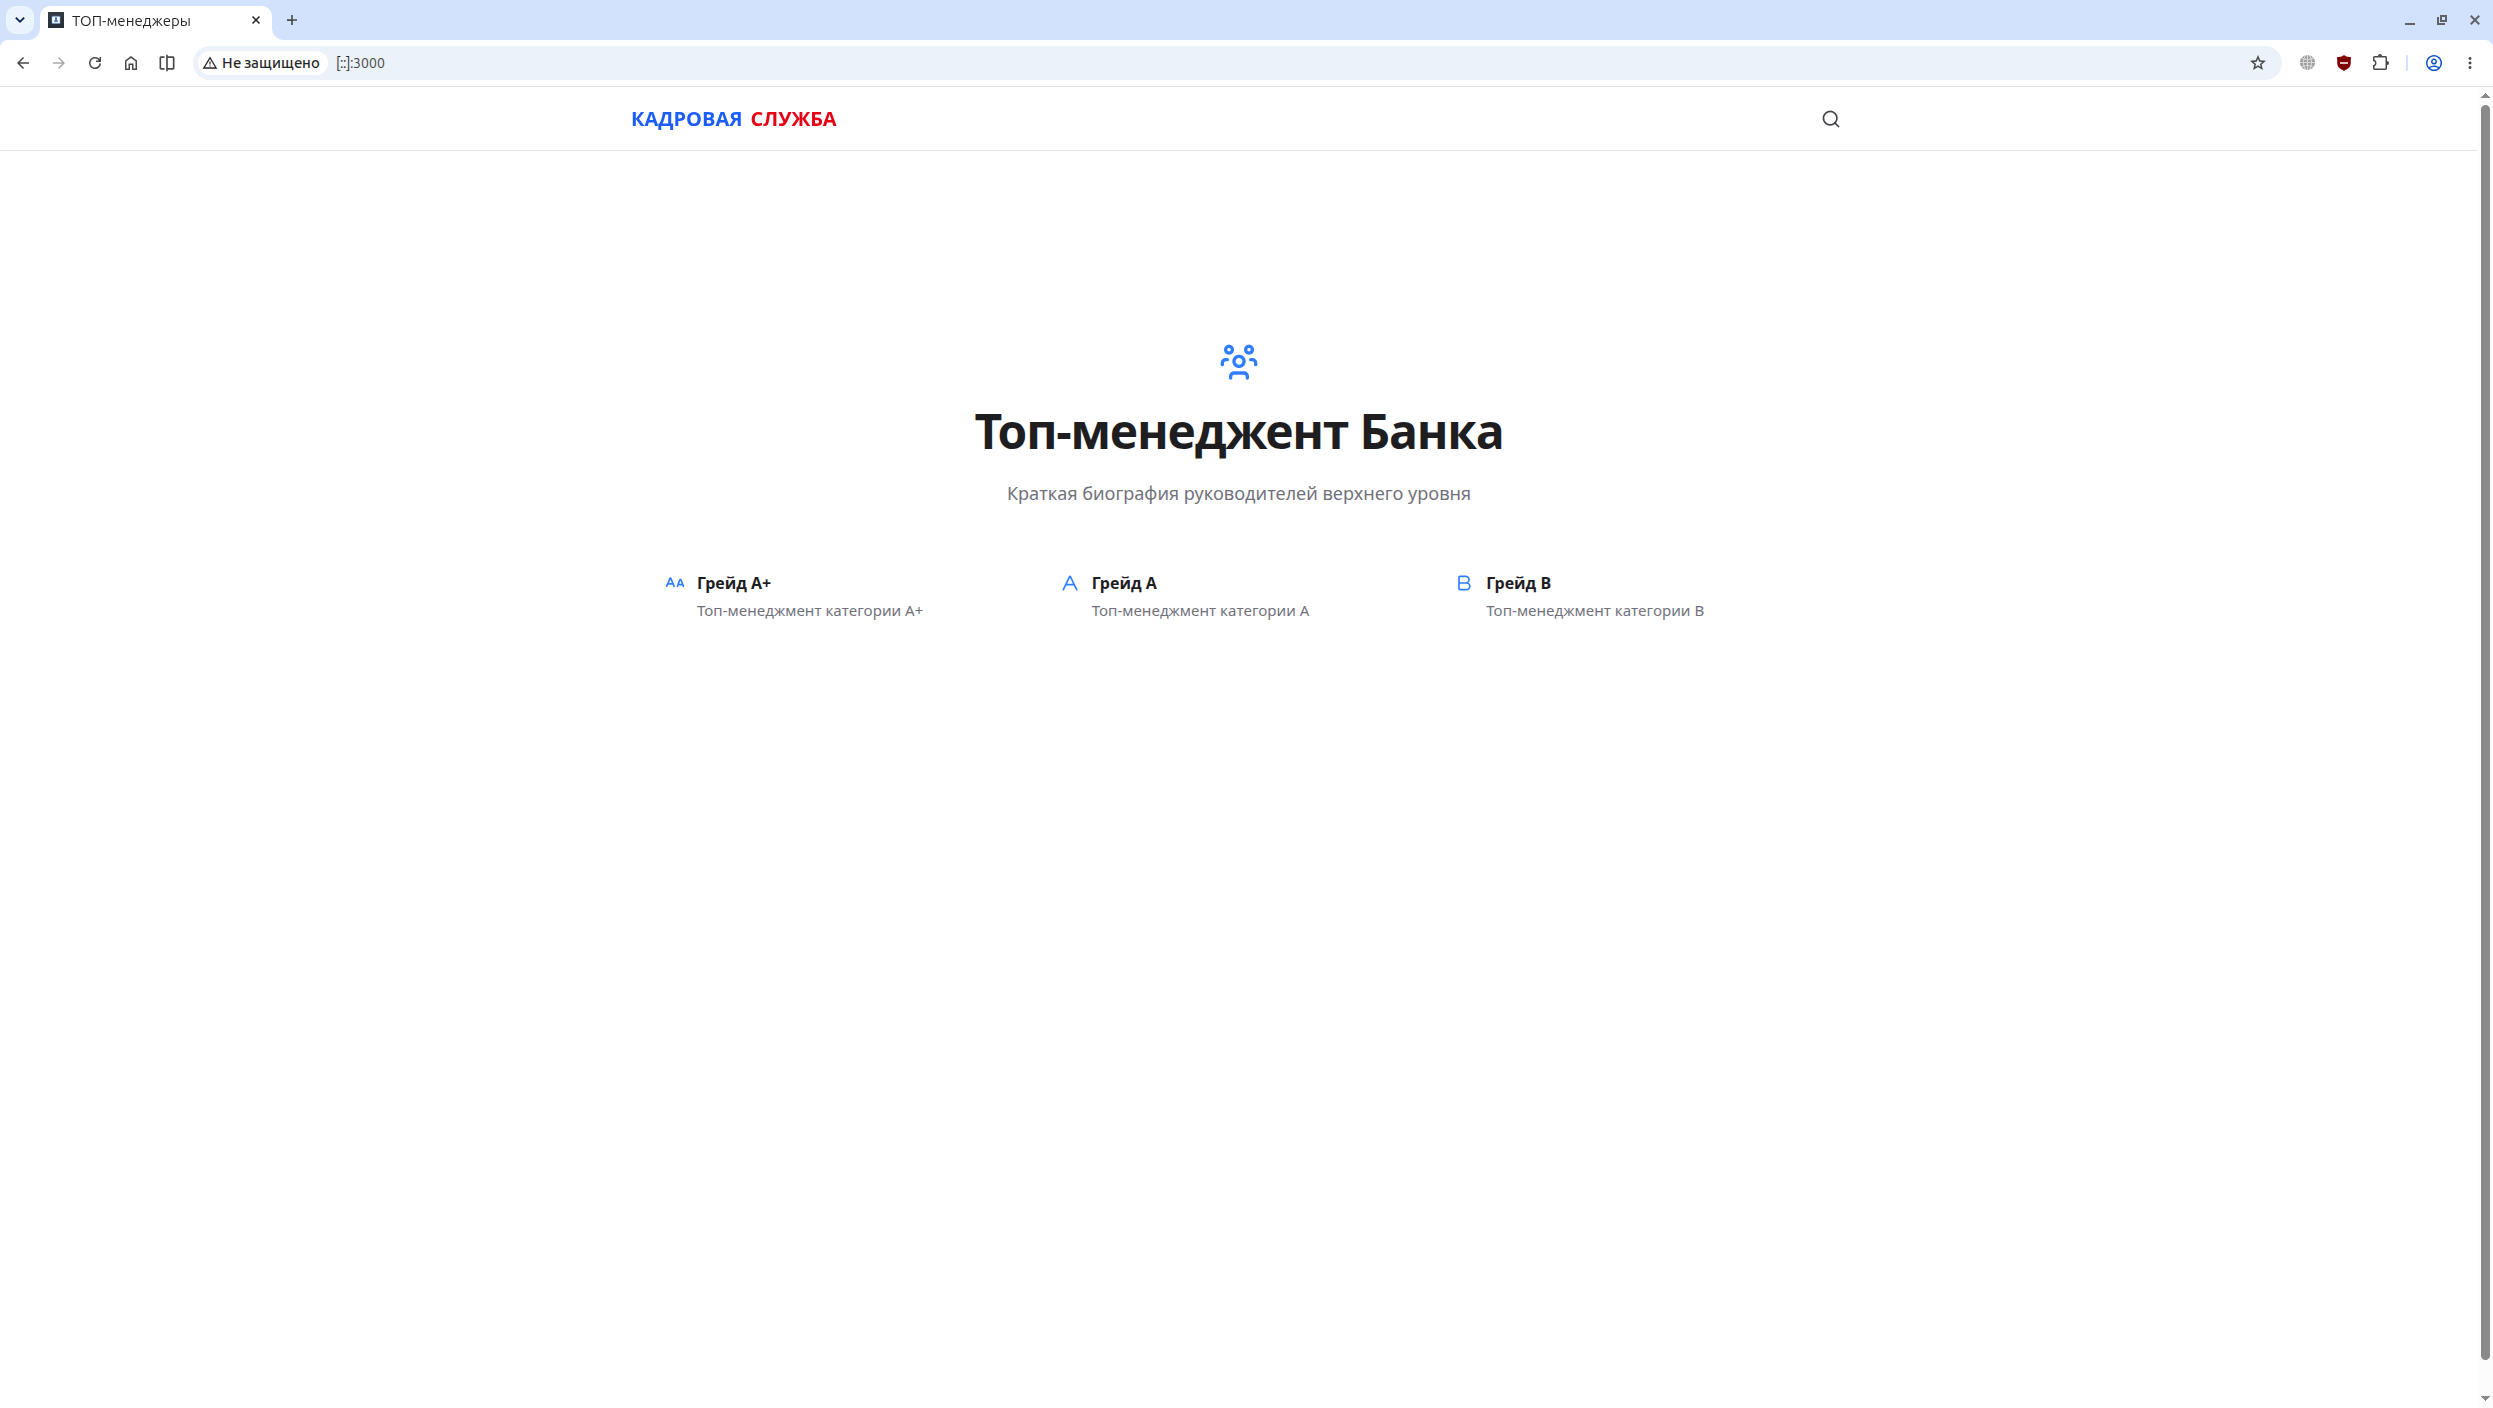
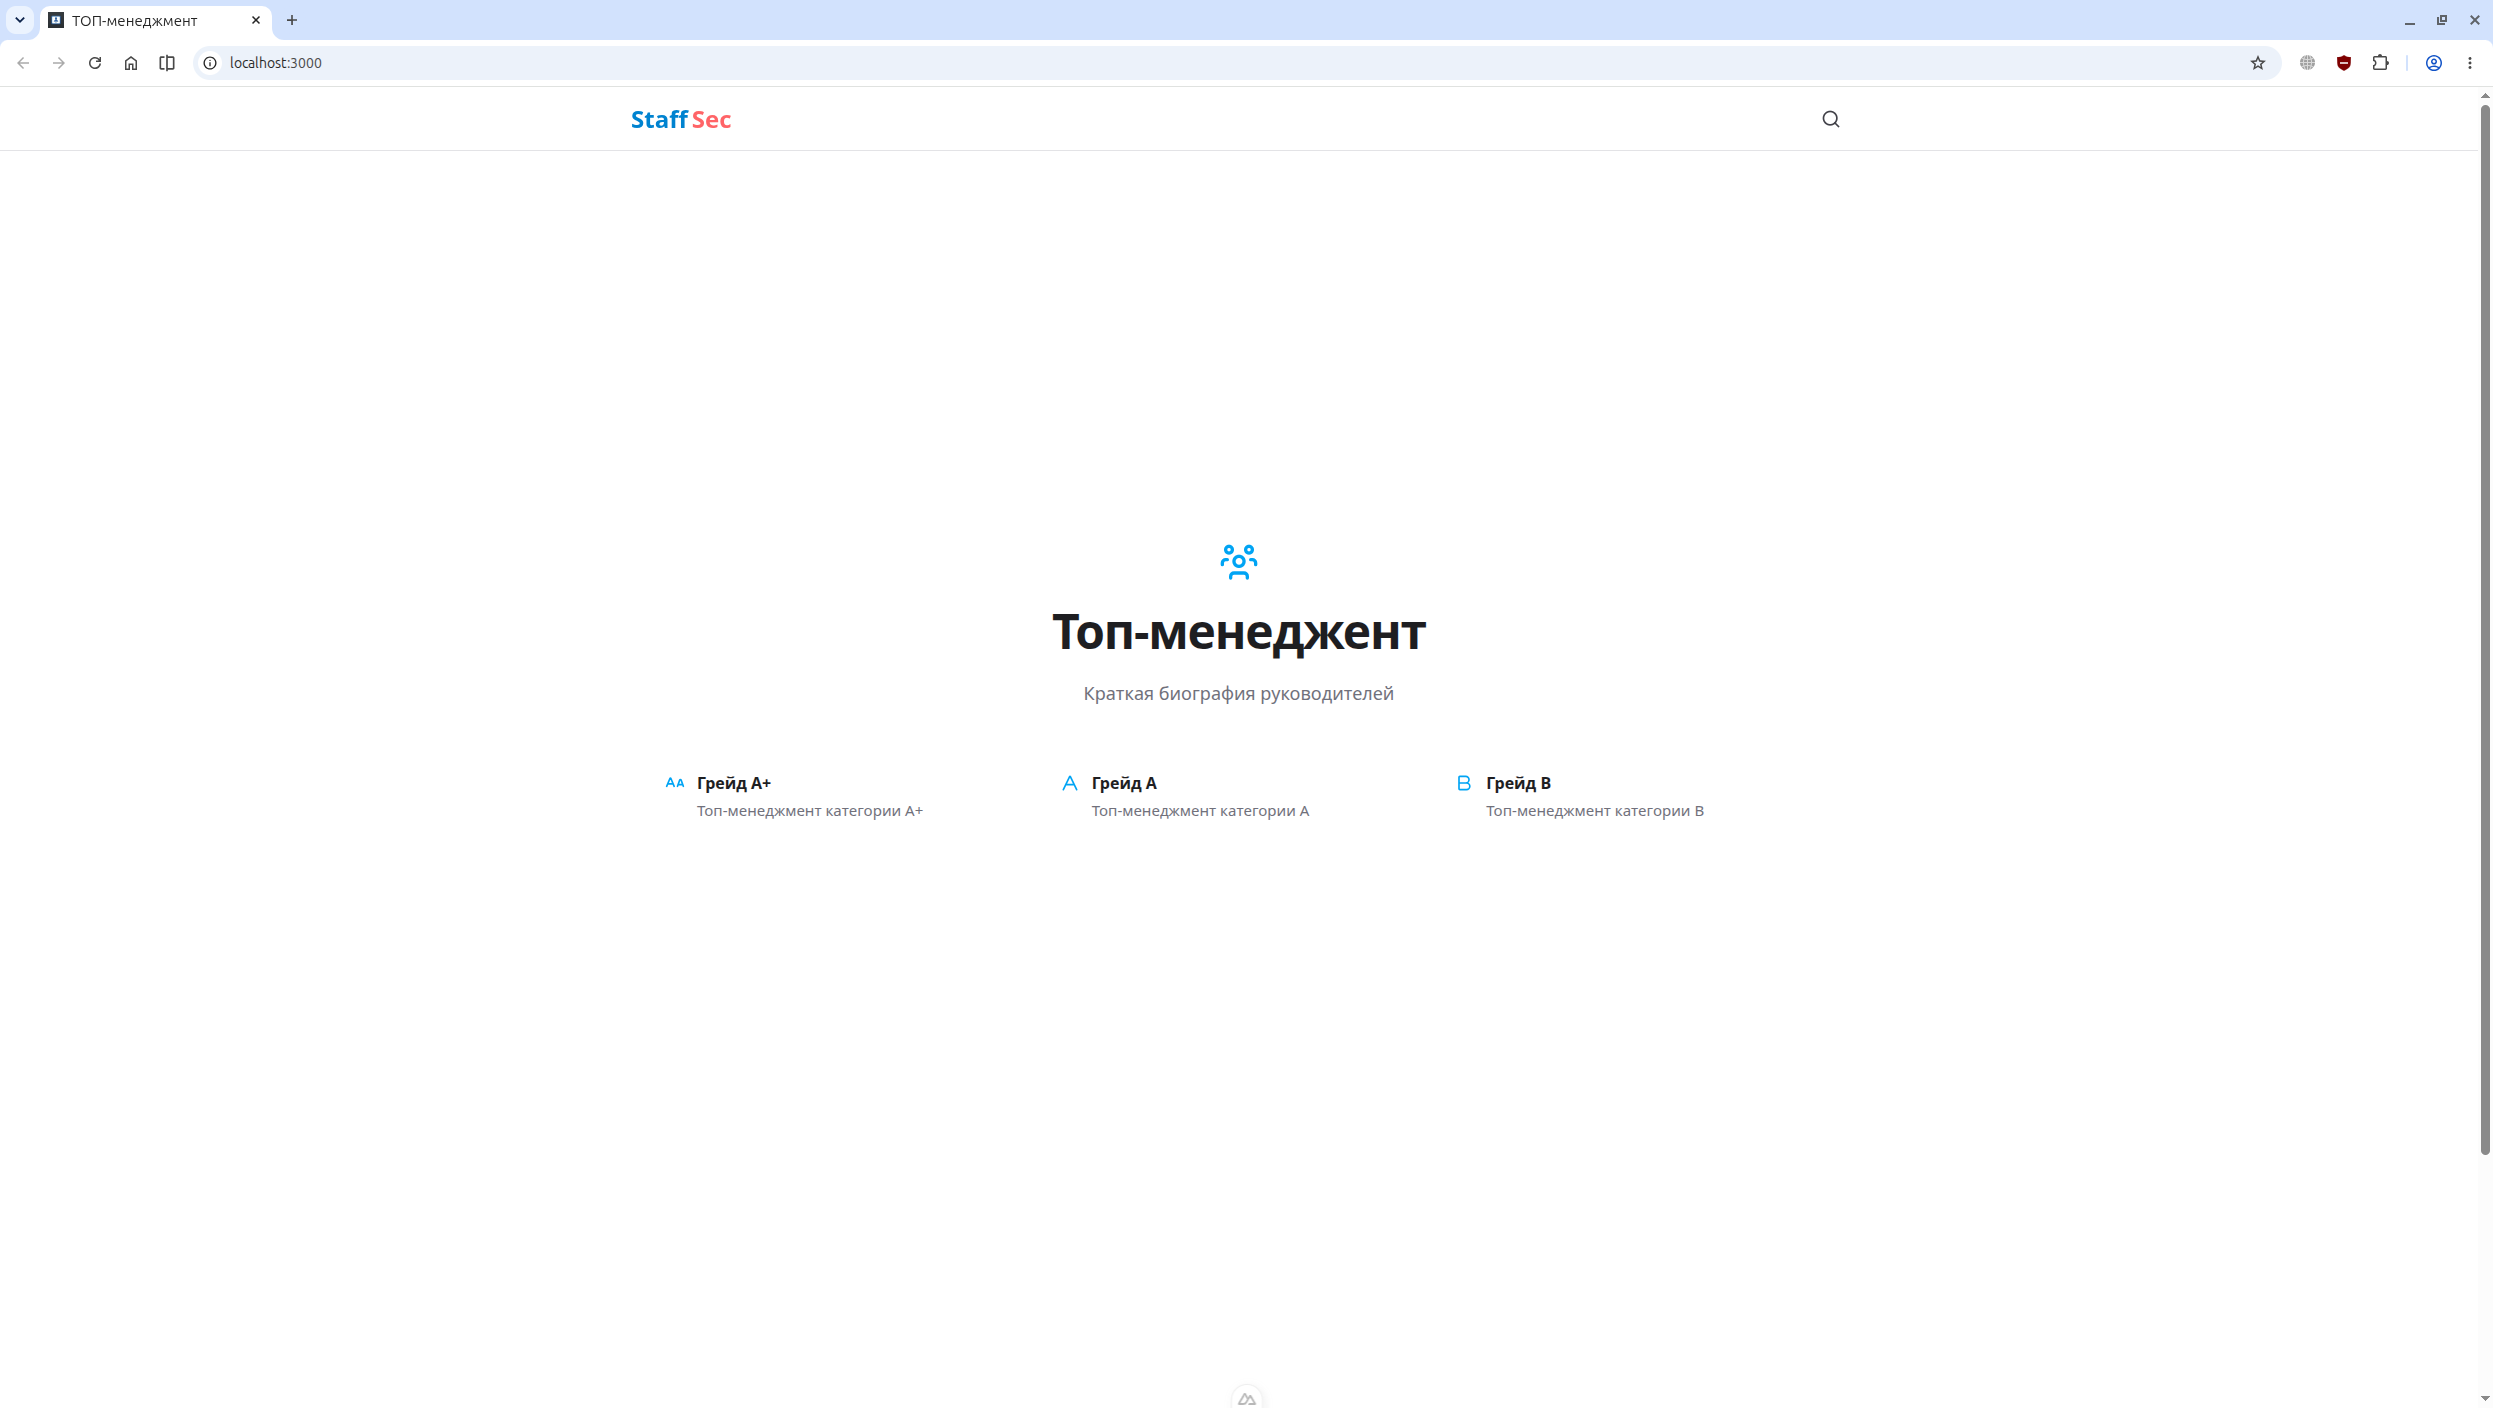
Some fixes

diff --git a/app/app.vue b/app/app.vue
@@ -4,7 +4,7 @@ useHead({
   description: "Приложение для просмотра управленческого состава организации",
 });
 
-// используем useSearchCollection для поиска по содержимому
+// поиск по содержимому
 const { search, status, init } = useSearchCollection(["a", "b", "plus"], {
   immediate: false,
 });
@@ -25,11 +25,8 @@ watch(open, (value) => {
     <UHeader>
       <template #left>
         <NuxtLink to="/" title="Главная страница">
-          <div
-            v-once
-            class="inline-flex items-center text-2xl font-bold space-x-1"
-          >
-            <div class="text-blue-600">Staff</div>
+          <div class="inline-flex items-center text-2xl font-bold space-x-1">
+            <div class="text-primary-600">Staff</div>
             <div class="text-red-600">Sec</div>
           </div>
         </NuxtLink>

diff --git a/app/app.config.ts b/app/app.config.ts
@@ -2,7 +2,7 @@ export default defineAppConfig({
   ui: {
     colors: {
       primary: "blue",
-      secondary: "purple",
+      secondary: "mist",
       neutral: "zinc",
     },
     pageHeader: {

diff --git a/README.md b/README.md
@@ -114,3 +114,4 @@ node .output/server/index.mjs
 <img src="screenshots/screenshot-1.png" width="100%" alt="Скриншот 1">
 <img src="screenshots/screenshot-2.png" width="100%" alt="Скриншот 2">
 <img src="screenshots/screenshot-3.png" width="100%" alt="Скриншот 3">
+<img src="screenshots/screenshot-4.png" width="100%" alt="Скриншот 4">
